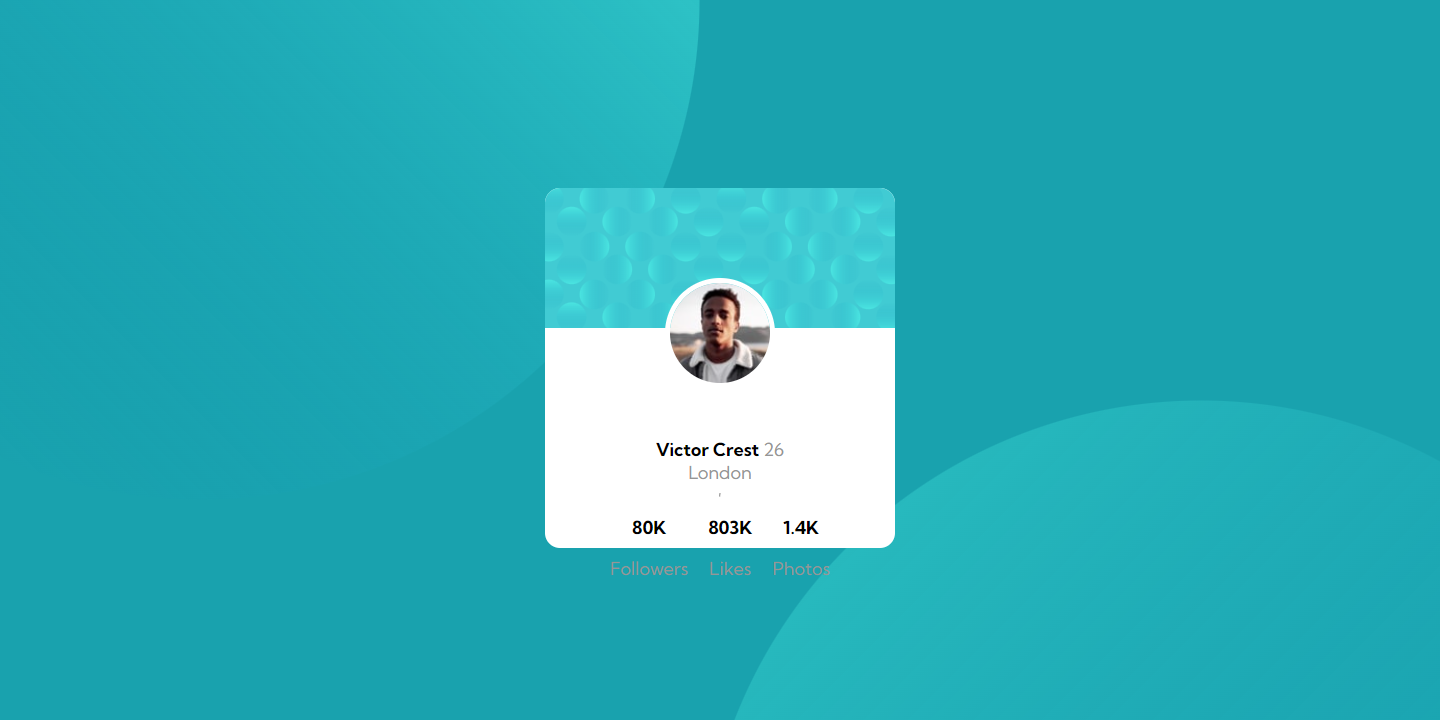
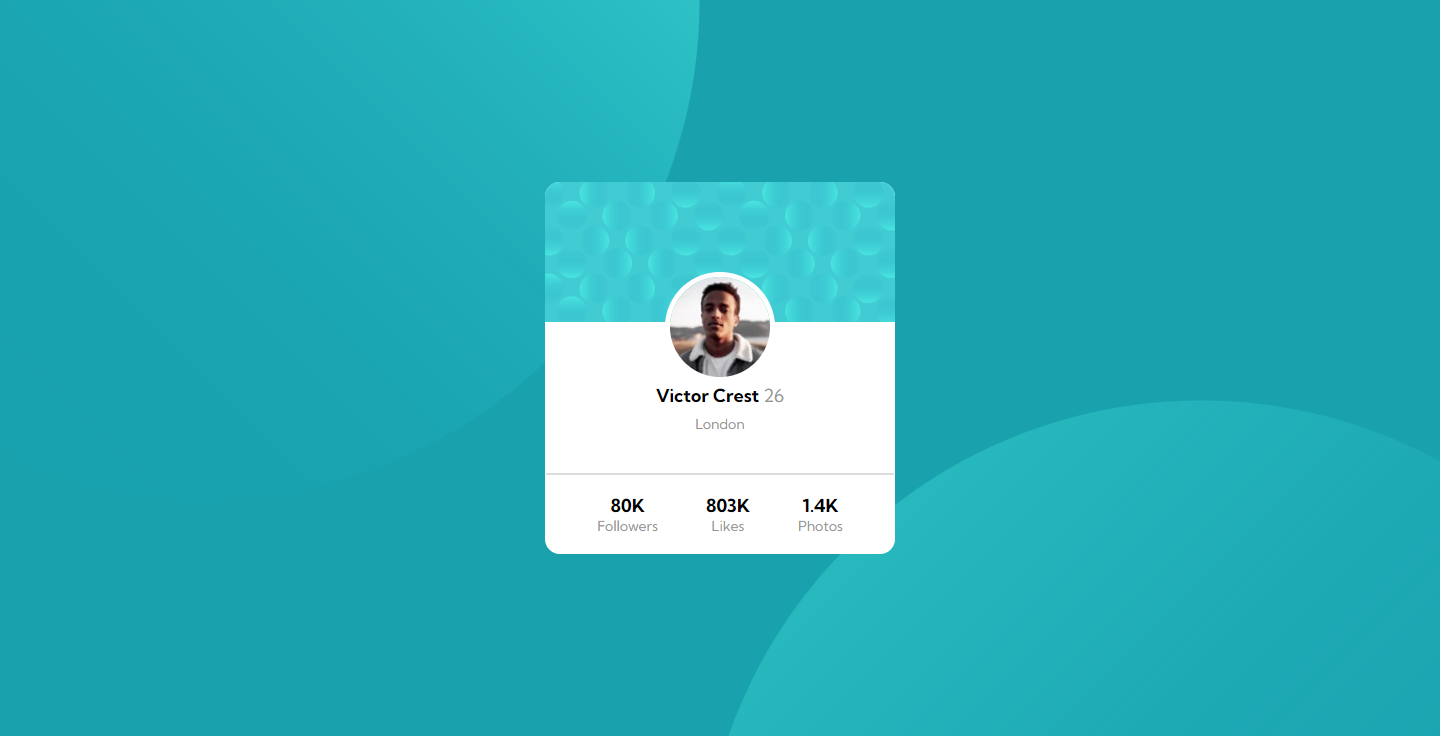
fix spacing and hr

Changed region(s): [[0.375, 0.6111, 0.625, 0.7944], [0.375, 0.3667, 0.625, 0.55], [0.375, 0.2444, 0.625, 0.275]]

diff --git a/style.css b/style.css
@@ -25,10 +25,7 @@ body {
 h1 {
     display: block;
     font-size: 18px;
-    margin-top: 0.00em;
-    margin-bottom: 0.00em;
-    margin-left: 0;
-    margin-right: 0;
+    margin: 0 0 0 0;
     font-weight: bold;
 }
 
@@ -43,7 +40,6 @@ h1 {
 
 .profile-card {
     width: 350px;
-    height: 360px;
 
     display: flex;
     flex-direction: column;
@@ -54,7 +50,8 @@ h1 {
 }
 
 .profile-name {
-
+    position: relative;
+    top: -3rem;
     font-weight: 700;
     margin-block-start: 0px;
 }
@@ -68,6 +65,9 @@ h1 {
 }
 
 .profile-location {
+    position: relative;
+    top: -2.5rem;
+    font-size: 14px;
     font-weight: 400;
     color: hsl(0, 0%, 59%);
 }
@@ -81,15 +81,23 @@ h1 {
     display: flex;
     flex-direction: column;
     align-items: center;
-    padding: 10px;
+    padding: 1.2rem 1.5rem;
 }
 
 .info p {
+    margin: 0;
+    font-size: 14px;
     color: hsl(0, 0%, 59%);
 }
 
 hr.solid {
-    border-top: 3px solid #bbb;
+    margin: 0 0 0 0;
+    padding: 0 0 0 0;
+    position: relative;
+    height: 0;
+
+    border: 0.5px solid #ddd;
+    width: 99%;
 }
 
 footer {

diff --git a/index.html b/index.html
@@ -17,7 +17,7 @@
       <img src="./images/bg-pattern-card.svg" class="profile-pattern-card">
       <img src="./images/image-victor.jpg" alt="Victor" class="profile-image">
       <div class="profile-name">
-        <h1>Victor Crest <span class="age">26</span></h1>
+        <h1>Victor Crest <span class="age"> 26</span></h1>
       </div>
       <div class="profile-location">
         London
@@ -28,12 +28,10 @@
           <h1>80K</h1>
           <p>Followers</p>
         </div>
-
         <div class="info">
           <h1>803K</h1>
           <p>Likes</p>
         </div>
-
         <div class="info">
           <h1>1.4K</h1>
           <p>Photos</p>
